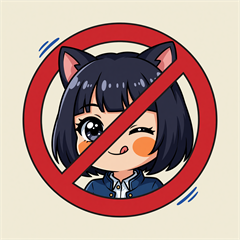
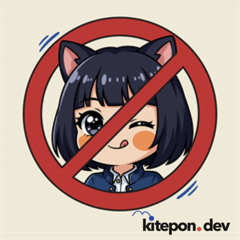
プレースホルダー画像を最新ブランド裁定へ更新

Changed region(s): [[0.0875, 0.0583, 0.9625, 0.9917]]

diff --git a/src/content-search.js b/src/content-search.js
@@ -24,7 +24,9 @@ const CB_SEARCH = (() => {
   // オーナー確定のマスコット画像（assets/mascot-source.pngをカード表示サイズへリサイズ済み）。
   // 拡張同梱リソースを chrome.runtime.getURL() 経由で参照する（外部URL禁止）。
   const MASCOT_IMAGE_PATH = 'assets/mascot-blocked.png';
+  const MASCOT_HOVER_IMAGE_PATH = 'assets/mascot-blocked-hover.png';
   const MASCOT_DISPLAY_SIZE = 120;
+  const BRAND_URL = 'https://kitepon.dev/';
 
   // kitepon.dev ブランド正典（color-system.md）の適用値。
   const COLOR_ORANGE = '#ef8d32'; // Discovery Orange: 枠・識別色
@@ -48,6 +50,40 @@ const CB_SEARCH = (() => {
   /** @returns {string} 拡張同梱のマスコット画像URL（chrome.runtime.getURL経由） */
   function getMascotImageUrl() {
     return chrome.runtime.getURL(MASCOT_IMAGE_PATH);
+  }
+
+  /** @returns {string} hover/focus時のマスコット画像URL */
+  function getMascotHoverImageUrl() {
+    return chrome.runtime.getURL(MASCOT_HOVER_IMAGE_PATH);
+  }
+
+  /** @param {any} art @returns {any} */
+  function buildBrandLink(art) {
+    const link = document.createElement('a');
+    link.href = BRAND_URL;
+    link.target = '_blank';
+    link.rel = 'noopener';
+    link.title = 'kitepon.dev';
+    link.setAttribute('aria-label', 'kitepon.dev を開く');
+    Object.assign(link.style, {
+      display: 'inline-flex', alignItems: 'center', justifyContent: 'center',
+      lineHeight: '0', cursor: 'pointer', borderRadius: '8px',
+    });
+    let hovered = false;
+    let focused = false;
+    const updateArt = () => {
+      art.src = hovered || focused ? getMascotHoverImageUrl() : getMascotImageUrl();
+    };
+    link.addEventListener('mouseenter', () => { hovered = true; updateArt(); });
+    link.addEventListener('mouseleave', () => { hovered = false; updateArt(); });
+    link.addEventListener('focus', () => { focused = true; updateArt(); });
+    link.addEventListener('blur', () => { focused = false; updateArt(); });
+    link.addEventListener('click', (event) => {
+      // カード本来の遷移だけを止め、kitepon.devリンクの既定動作は維持する。
+      if (event && event.stopPropagation) event.stopPropagation();
+    });
+    link.appendChild(art);
+    return link;
   }
 
   // placeholder挿入時に隠した元の子要素のdisplay値を退避しておく（DOM要素へ直接プロパティを生やさない）。
@@ -130,7 +166,7 @@ const CB_SEARCH = (() => {
     art.height = MASCOT_DISPLAY_SIZE;
     art.alt = ''; // 情報はlabel/ストア名側で伝えるため装飾画像として扱う
     art.ariaHidden = 'true';
-    el.appendChild(art);
+    el.appendChild(buildBrandLink(art));
 
     const label = document.createElement('p');
     label.textContent = 'BLOCKED';

diff --git a/src/content-name.js b/src/content-name.js
@@ -15,7 +15,9 @@ const CB_NAME = (() => {
   const TOAST_CLASS = 'cb-toast';
   const TOAST_DURATION_MS = 2000;
   const MASCOT_IMAGE_PATH = 'assets/mascot-blocked.png';
+  const MASCOT_HOVER_IMAGE_PATH = 'assets/mascot-blocked-hover.png';
   const MASCOT_DISPLAY_SIZE = 64;
+  const BRAND_URL = 'https://kitepon.dev/';
 
   // kitepon.dev ブランド正典（color-system.md）。content-search.js と同値を維持すること。
   const COLOR_ORANGE = '#ef8d32';
@@ -25,6 +27,37 @@ const CB_NAME = (() => {
 
   function getMascotImageUrl() {
     return chrome.runtime.getURL(MASCOT_IMAGE_PATH);
+  }
+
+  function getMascotHoverImageUrl() {
+    return chrome.runtime.getURL(MASCOT_HOVER_IMAGE_PATH);
+  }
+
+  function buildBrandLink(art) {
+    const link = document.createElement('a');
+    link.href = BRAND_URL;
+    link.target = '_blank';
+    link.rel = 'noopener';
+    link.title = 'kitepon.dev';
+    link.setAttribute('aria-label', 'kitepon.dev を開く');
+    Object.assign(link.style, {
+      display: 'inline-flex', alignItems: 'center', justifyContent: 'center',
+      lineHeight: '0', cursor: 'pointer', borderRadius: '8px', flexShrink: '1',
+    });
+    let hovered = false;
+    let focused = false;
+    const updateArt = () => {
+      art.src = hovered || focused ? getMascotHoverImageUrl() : getMascotImageUrl();
+    };
+    link.addEventListener('mouseenter', () => { hovered = true; updateArt(); });
+    link.addEventListener('mouseleave', () => { hovered = false; updateArt(); });
+    link.addEventListener('focus', () => { focused = true; updateArt(); });
+    link.addEventListener('blur', () => { focused = false; updateArt(); });
+    link.addEventListener('click', (event) => {
+      if (event && event.stopPropagation) event.stopPropagation();
+    });
+    link.appendChild(art);
+    return link;
   }
 
   const originalChildStateByWrapper = new WeakMap();
@@ -87,7 +120,7 @@ const CB_NAME = (() => {
       width: `${MASCOT_DISPLAY_SIZE}px`, height: `${MASCOT_DISPLAY_SIZE}px`,
       maxWidth: '24%', maxHeight: 'calc(100% - 8px)', objectFit: 'contain', flexShrink: '1',
     });
-    el.appendChild(art);
+    el.appendChild(buildBrandLink(art));
 
     const content = document.createElement('div');
     Object.assign(content.style, {

diff --git a/evidence/chromeblocker-brand/b3-placeholder.md b/evidence/chromeblocker-brand/b3-placeholder.md
@@ -1,0 +1,23 @@
+# b3-placeholder 証跡
+
+## 実施
+
+- `/Users/kite/Developer/RootSitePromotion/docs/color-system.md` と `identity-system.md` を読み、既存の White / Discovery Orange / Deep Orange / Ink の構成を維持した。
+- 通常画像を指定された `nope-brand-preview-mascot-up-6.png`、hover/focus画像を指定された `nope-brand-preview-hover.png` とバイト一致する240×240 PNGとして同梱した。
+- 検索カードと名前カードのプレースホルダーで、ロゴ込み画像全体を `https://kitepon.dev/` へのリンクにした。追跡パラメータと別ロゴDOMは置いていない。
+- mouse hoverとkeyboard focusのどちらでもhover画像へ切り替え、hoverとfocusが重なった時は片方が継続する限りhover画像を保つ。
+- 解除ボタンはブランドリンクの外に維持し、既存の `preventDefault` / `stopPropagation` / storage解除経路を変更していない。collapse経路も変更していない。
+- `manifest.json` の `web_accessible_resources` へ通常・hover画像を登録した。
+
+## 画像同一性
+
[2 lines of base64/hex data omitted]
+- `cmp -s` で指定元ファイルと同梱先が双方一致した。
+
+## 検証
+
+- `git diff --check`: 成功
+- `node --test test/content-search.test.mjs test/content-name.test.mjs`: 45件成功、失敗0件
+- 正本上の後続 `b4-verify` が実ブラウザ検証を所有するため、この工程では実ブラウザと掲載画像撮影を実施していない。
+- 正本上の後続 `b5-repackage` が配布物再生成を所有するため、この工程ではpackを実施していない。
